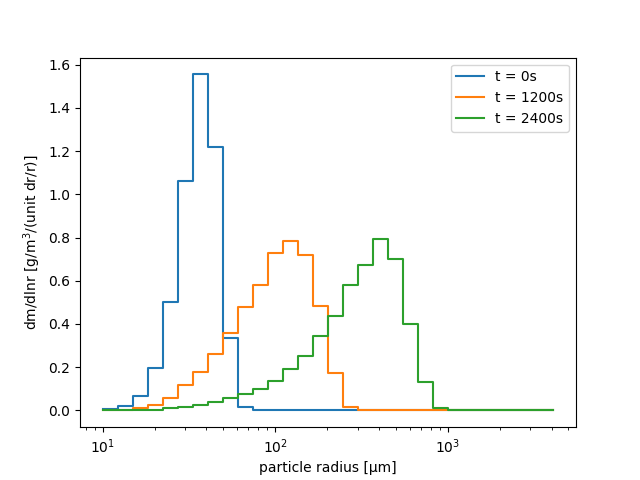
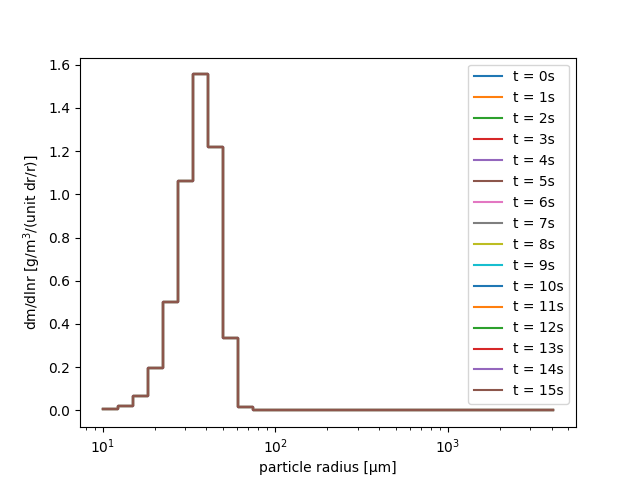
1806 local work

diff --git a/PySDM/backends/impl_jax/methods/moments_methods.py b/PySDM/backends/impl_jax/methods/moments_methods.py
@@ -5,6 +5,7 @@ CPU implementation of moment calculation backend methods
 from functools import cached_property
 
 import jax
+import jax.numpy as jnp
 
 from PySDM.backends.impl_common.backend_methods import BackendMethods
 
@@ -23,8 +24,7 @@ def spectrum_moments_helper(x_bins, x_attr, idx, idx_i):
         )
 
     i = idx[idx_i]
-    bin_to_calculate = jax.lax.while_loop(cond_fun, lambda k: k + 1, 0)
-    return bin_to_calculate
+    return jax.lax.while_loop(cond_fun, lambda k: k + 1, 0)
 
 
 class MomentsMethods(BackendMethods):
@@ -82,11 +82,10 @@ class MomentsMethods(BackendMethods):
         weighting_rank,
         skip_division_by_m0,
     ):
-
+        assert False
         moment_0.data = moment_0.data.at[:].set(0)
         moments.data = moments.data.at[:, :].set(0)
-        idx_idxs = jax.numpy.arange(length)
-        assert False
+        idx_idxs = jnp.arange(length)
         count_bins_func = jax.vmap(moments_helper, (None, None, None, None, 0))
         idx_to_count = count_bins_func(min_x, max_x, x_attr.data, idx.data, idx_idxs)
         mapped_spectrum = jax.vmap(
@@ -118,13 +117,14 @@ class MomentsMethods(BackendMethods):
             weighting_rank,
             idx_to_count,
             idx_idxs,
-        ).block_until_ready()
+        )
+        moment_0.data.block_until_ready()
 
         moments.data = moments.data.sum(0)
         moment_0.data = moment_0.data.sum(0)
 
         if not skip_division_by_m0:
-            moments.data = jax.numpy.where(
+            moments.data = jnp.where(
                 moment_0.data != 0, moments.data / moment_0.data, 0.0
             )
 
@@ -176,12 +176,27 @@ class MomentsMethods(BackendMethods):
         weighting_rank,
         skip_division_by_m0,
     ):
+        # print(f"{moment_0.data=}")
+        # print(f"{moments.data=}")
+        # print(f"{multiplicity.data=}")
+        # print(f"{attr_data.data=}")
+        # print(f"{cell_id.data=}")
+        # print(f"{idx.data=}")
+        # print(f"{length=}")
+        # print(f"{rank=}")
+        # print(f"{x_bins.data=}")
+        # print(f"{x_attr.data=}")
+        # print(f"{weighting_attribute.data=}")
+        # print(f"{weighting_rank=}")
+        # print(f"{skip_division_by_m0=}")
+
         assert moments.shape[0] == x_bins.shape[0] - 1
         assert moment_0.shape == moments.shape
-
-        new_moment_0 = jax.numpy.zeros((moment_0.shape[0] + 1, moment_0.shape[1]))
-        new_moments = jax.numpy.zeros((moment_0.shape[0] + 1, moment_0.shape[1]))
-        idx_idxs = jax.numpy.arange(length)
+        new_moment_0 = jnp.zeros((moment_0.shape[0] + 1, moment_0.shape[1]))
+        # moment_0.data = moment_0.data.at[:].set(0)
+        # moments.data = moments.data.at[:].set(0)
+        new_moments = jnp.zeros((moment_0.shape[0] + 1, moment_0.shape[1]))
+        idx_idxs = jnp.arange(length)
 
         count_bins_func = jax.vmap(spectrum_moments_helper, (None, None, None, 0))
         bins_to_count = count_bins_func(x_bins.data, x_attr.data, idx.data, idx_idxs)
@@ -192,6 +207,8 @@ class MomentsMethods(BackendMethods):
         )
 
         new_moment_0, new_moments = mapped_spectrum(
+            # moment_0.data,
+            # moments.data,
             new_moment_0,
             new_moments,
             multiplicity.data,
@@ -206,10 +223,11 @@ class MomentsMethods(BackendMethods):
         )
         new_moment_0.block_until_ready()
 
-        moments.data = jax.numpy.sum(new_moments[:, :-1, :], axis=0)
-        moment_0.data = jax.numpy.sum(new_moment_0[:, :-1, :], axis=0)
+        moments.data = jnp.sum(new_moments[:, :-1, :], axis=0)
+        moment_0.data = jnp.sum(new_moment_0[:, :-1, :], axis=0)
 
         if not skip_division_by_m0:
-            moments.data = jax.numpy.where(
+            moments.data = jnp.where(
                 moment_0.data != 0, moments.data / moment_0.data, 0.0
             )
+

diff --git a/PySDM/backends/impl_jax/storage.py b/PySDM/backends/impl_jax/storage.py
@@ -16,9 +16,15 @@ from PySDM.backends.impl_jax import storage_impl as impl
 
 
 class Storage(StorageBase):
-    FLOAT = jnp.float64
-    INT = jnp.int64
-    BOOL = jnp.bool_
+    # Changed things with types here so that Storage dtypes identify as numpy dtypes
+    FLOAT = np.float64
+    JAX_FLOAT = jnp.float64
+
+    INT = np.int64
+    JAX_INT = jnp.int64
+
+    BOOL = np.bool_
+    JAX_BOOL = jnp.bool_
 
     def ravel(self, other):
         if isinstance(other, Storage):
@@ -55,14 +61,14 @@ class Storage(StorageBase):
 
     @staticmethod
     def _get_empty_data(shape, dtype):
-        if dtype in (float, Storage.FLOAT):
-            data = jnp.full(shape, jnp.nan, dtype=Storage.FLOAT)
+        if dtype in (float, Storage.FLOAT, Storage.JAX_FLOAT):
+            data = jnp.full(shape, jnp.nan, dtype=Storage.JAX_FLOAT)
             dtype = Storage.FLOAT
-        elif dtype in (int, Storage.INT):
-            data = jnp.full(shape, -1, dtype=Storage.INT)
+        elif dtype in (int, Storage.INT, Storage.JAX_INT):
+            data = jnp.full(shape, -1, dtype=Storage.JAX_INT)
             dtype = Storage.INT
-        elif dtype in (bool, Storage.BOOL):
-            data = jnp.full(shape, -1, dtype=Storage.BOOL)
+        elif dtype in (bool, Storage.BOOL, Storage.JAX_BOOL):
+            data = jnp.full(shape, -1, dtype=Storage.JAX_BOOL)
             dtype = Storage.BOOL
         else:
             raise NotImplementedError()

diff --git a/PySDM/backends/impl_numba/methods/moments_methods.py b/PySDM/backends/impl_numba/methods/moments_methods.py
@@ -170,6 +170,19 @@ class MomentsMethods(BackendMethods):
         weighting_rank,
         skip_division_by_m0,
     ):
+        # print(f"{moment_0.data=}")
+        # print(f"{moments.data=}")
+        # print(f"{multiplicity.data=}")
+        # print(f"{attr_data.data=}")
+        # print(f"{cell_id.data=}")
+        # print(f"{idx.data=}")
+        # print(f"{length=}")
+        # print(f"{rank=}")
+        # print(f"{x_bins.data=}")
+        # print(f"{x_attr.data=}")
+        # print(f"{weighting_attribute.data=}")
+        # print(f"{weighting_rank=}")
+        # print(f"{skip_division_by_m0=}")
         assert moments.shape[0] == x_bins.shape[0] - 1
         assert moment_0.shape == moments.shape
         self._spectrum_moments_body(

diff --git a/tests/unit_tests/backends/test_physics_methods.py b/tests/unit_tests/backends/test_physics_methods.py
@@ -39,15 +39,16 @@ class TestPhysicsMethods:
 
     @staticmethod
     @pytest.mark.parametrize("variant", ("LiquidSpheres", "MixedPhaseSpheres"))
-    def test_mass_to_volume(backend_class, variant):
+    def test_mass_to_volume(backend_class_with_jax, variant):
         # Arrange
         formulae = Formulae(particle_shape_and_density=variant)
-        backend = backend_class(formulae, double_precision=True)
+        backend = backend_class_with_jax(formulae, double_precision=True)
         sut = backend.volume_of_water_mass
         mass = np.asarray([1.0, -1.0])
         mass_in = backend.Storage.from_ndarray(mass)
-        volume_out = backend.Storage.from_ndarray(np.zeros_like(mass_in))
+        volume_out = backend.Storage.from_ndarray(np.zeros_like(mass_in.to_ndarray()))
 
+        print(f"{mass_in.data=}")
         # Act
         sut(volume=volume_out, mass=mass_in)
 

diff --git a/PySDM/backends/impl_jax/methods/physics_methods.py b/PySDM/backends/impl_jax/methods/physics_methods.py
@@ -20,7 +20,7 @@ class PhysicsMethods(BackendMethods):
         #     self.formulae_flattened.particle_shape_and_density__mass_to_volume.py_func)
         ff = self.formulae_flattened
 
-        @jax.jit
+        # @jax.jit
         def body(mass):
             # volume = particle_shape_and_density__mass_to_volume(mass)
             return ff.particle_shape_and_density__mass_to_volume.py_func(mass)
@@ -32,3 +32,4 @@ class PhysicsMethods(BackendMethods):
     def volume_of_water_mass(self, volume, mass):
         mapped_func = jax.vmap(self._volume_of_mass_body, (0))
         volume.data = mapped_func(mass.data).block_until_ready()
+        # volume.data = self._volume_of_mass_body(mass.data).block_until_ready()

diff --git a/PySDM/backends/impl_jax/methods/collisions_methods.py b/PySDM/backends/impl_jax/methods/collisions_methods.py
@@ -14,6 +14,7 @@ from PySDM.backends.impl_jax.storage import Storage
 
 
 def pair_indices(i, idx, is_first_in_pair, prob_like):
+    assert False
     offset = 1 - is_first_in_pair[2 * i]
     j = idx[2 * i + offset]
     k = idx[2 * i + 1 + offset]

diff --git a/PySDM/backends/impl_jax/storage_impl.py b/PySDM/backends/impl_jax/storage_impl.py
@@ -18,4 +18,3 @@ def multiply(output, multiplier):
 def divide_out_of_place(output, dividend, divisor):
     output = output.at[:].set(dividend / divisor)
     return output
-    # TODO return ?